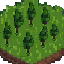
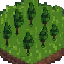
added tile growth

diff --git a/src/core/world.ts b/src/core/world.ts
@@ -4,6 +4,8 @@ import type {TerrainKey} from './terrainDefs';
 import {idleStore as store} from "../store/idleStore.ts";
 import {createLoader, finishLoader, getLoader, updateLoader} from './loader';
 import {TERRAIN_DEFS} from './terrainDefs';
+import { applyVariant } from './variants';
+import { registerExistingAgingTiles } from './growth';
 
 export type Terrain = TerrainKey;
 export type ResourceType = 'wood' | 'ore' | 'stone' | 'food' | 'crystal' | 'artifact';
@@ -18,6 +20,8 @@ export interface Tile {
     discovered: boolean;
     // Variant key if a terrain variation was selected (e.g. 'plains_coast_a'). Null if base terrain.
     variant?: string | null;
+    // Timestamp when current variant was set (for growth progression)
+    variantSetMs?: number;
     // Cached direct neighbor tiles mapped by side (a-f clockwise). Populated lazily.
     neighbors?: TileNeighborMap;
 }
@@ -140,7 +144,6 @@ export function getNeighborTerrains(tile: Tile, radius: number = 1): Terrain[] {
 
 export const terrainPositions: Record<TerrainKey, Set<string>> = {
     forest: new Set(),
-    chopped_forest: new Set(), // added for chopped forest tiles
     plains: new Set(),
     water: new Set(),
     mountain: new Set(),
@@ -148,7 +151,19 @@ export const terrainPositions: Record<TerrainKey, Set<string>> = {
     dirt: new Set(),
     snow: new Set(),
     dessert: new Set(),
+    // Add chopped_forest variant tracking (not a base TerrainKey, keep separate Set outside type cast logic)
+} as any;
+// Provide a dedicated set for chopped_forest variant tiles
+(terrainPositions as any).chopped_forest = (terrainPositions as any).chopped_forest || new Set();
+
+export const variantPositions: Record<string, Set<string>> = {
+    chopped_forest: new Set<string>(),
 };
+export function getVariantSet(key: string): Set<string> {
+    let s = variantPositions[key];
+    if (!s) { s = new Set<string>(); variantPositions[key] = s; }
+    return s;
+}
 
 export function discoverTile(tile: Tile) {
     if (tile.discovered && tile.terrain) return;
@@ -207,6 +222,10 @@ export function discoverTile(tile: Tile) {
                         roll -= v.weight;
                     }
                 }
+            }
+            // If selected variant has growth config, record timestamp and track aging
+            if (tile.variant) {
+                applyVariant(tile, tile.variant, { stagger: true, respectBiome: true });
             }
         }
     }
@@ -357,6 +376,8 @@ export function loadWorld(tileData: Tile[]) {
         }
         ensureTileNeighbors(t);
     }
+    // Re-register aging tiles after load
+    registerExistingAgingTiles(tiles);
     worldVersion.value++;
 }
 

diff --git a/src/core/growth.ts b/src/core/growth.ts
@@ -1,0 +1,64 @@
+import { tileIndex, worldVersion } from './world';
+import type { Tile } from './world';
+import { TERRAIN_DEFS } from './terrainDefs';
+import type { BiomeKey } from './biomes';
+
+// Track tiles with aging variants
+const agingTiles = new Set<string>();
+
+export function registerAgingTile(tile: Tile) {
+  if (!tile.variant) return;
+  const def = tile.terrain ? TERRAIN_DEFS[tile.terrain] : null;
+  const variantDef = def?.variations?.find(v => v.key === tile.variant);
+  if (variantDef?.growth) agingTiles.add(tile.id);
+}
+
+// Re-register tiles loaded from persistence
+export function registerExistingAgingTiles(tiles: Tile[]) {
+  for (const t of tiles) {
+    if (!t.discovered || !t.terrain || !t.variant) continue;
+    const def = TERRAIN_DEFS[t.terrain];
+    const variantDef = def?.variations?.find(v => v.key === t.variant);
+    if (variantDef?.growth) agingTiles.add(t.id);
+  }
+}
+
+export function getEffectiveAgeMs(tile: Tile, growth: { ageMs: number; biomeScale?: Partial<Record<string, number>> }): number {
+  const biome = tile.biome as BiomeKey | null;
+  if (!biome) return growth.ageMs;
+  const scale = growth.biomeScale?.[biome];
+  if (!scale || scale === 1) return growth.ageMs;
+  return growth.ageMs * scale;
+}
+
+export function updateTileGrowth(nowMs: number = Date.now()) {
+  if (agingTiles.size === 0) return;
+  const toRemove: string[] = [];
+  for (const id of agingTiles) {
+    const t = tileIndex[id];
+    if (!t || !t.discovered || !t.terrain || !t.variant) { toRemove.push(id); continue; }
+    const def = TERRAIN_DEFS[t.terrain];
+    const variantDef = def?.variations?.find(v => v.key === t.variant);
+    if (!variantDef?.growth) { toRemove.push(id); continue; }
+    const started = t.variantSetMs ?? 0;
+    if (!started) { toRemove.push(id); continue; }
+    const { next } = variantDef.growth;
+    const effectiveAge = getEffectiveAgeMs(t, variantDef.growth);
+    if (nowMs - started >= effectiveAge) {
+      // Transition
+      t.variant = next; // next null means return to base terrain representation
+      t.variantSetMs = next ? nowMs : undefined;
+      if (next) {
+        // If chain continues, keep tracking
+        const nextDef = def?.variations?.find(v => v.key === next);
+        if (!nextDef?.growth) {
+          toRemove.push(id);
+        }
+      } else {
+        toRemove.push(id);
+      }
+      worldVersion.value++;
+    }
+  }
+  for (const id of toRemove) agingTiles.delete(id);
+}

diff --git a/src/core/variants.ts b/src/core/variants.ts
@@ -1,0 +1,46 @@
+import type { Tile } from './world';
+import { registerAgingTile, getEffectiveAgeMs } from './growth';
+import { TERRAIN_DEFS } from './terrainDefs';
+import { getVariantSet } from './world';
+
+interface ApplyVariantOptions {
+  stagger?: boolean; // apply random backward offset across effective age window
+  respectBiome?: boolean; // scale aging time using biomeScale
+  setTimestamp?: boolean; // set variantSetMs (if growth config present)
+}
+
+export function applyVariant(tile: Tile, variantKey: string | null, opts: ApplyVariantOptions = {}) {
+  const prev = tile.variant;
+  tile.variant = variantKey;
+  if (prev && prev !== variantKey) {
+    // Remove previous variant tracking set if known
+    if (prev === 'chopped_forest') getVariantSet('chopped_forest').delete(tile.id);
+  }
+  if (!variantKey) {
+    tile.variantSetMs = undefined;
+    return;
+  }
+  // Track certain explicit variants
+  if (variantKey === 'chopped_forest') getVariantSet('chopped_forest').add(tile.id);
+
+  const def = tile.terrain ? TERRAIN_DEFS[tile.terrain] : null;
+  const variantDef = def?.variations?.find(v => v.key === variantKey);
+  if (!variantDef?.growth) {
+    tile.variantSetMs = undefined;
+    return;
+  }
+  if (opts.setTimestamp !== false) {
+    // Compute effective age (only needed for stagger offset). Timestamp always set to now unless stagger indicates backdating.
+    let effectiveAge = variantDef.growth.ageMs;
+    if (opts.respectBiome) {
+      effectiveAge = getEffectiveAgeMs(tile, variantDef.growth);
+    }
+    if (opts.stagger) {
+      const offset = Math.floor(Math.random() * effectiveAge);
+      tile.variantSetMs = Date.now() - offset;
+    } else {
+      tile.variantSetMs = Date.now();
+    }
+  }
+  registerAgingTile(tile);
+}

diff --git a/src/core/terrainDefs.ts b/src/core/terrainDefs.ts
@@ -38,11 +38,13 @@ export interface TerrainVariationDef {
     key: string; // unique variant image key (e.g. 'plains_coast_a')
     weight?: number; // relative selection weight among other valid variants
     constraints?: TerrainVariationConstraint[]; // all constraints must pass for variant to be eligible
+    // Optional timed growth configuration: after ageMs, variant auto-transitions to next variant (or null for base)
+    // biomeScale: per-biome multiplier applied to ageMs for tiles whose tile.biome matches the key.
+    growth?: { next: string | null; ageMs: number; biomeScale?: Partial<Record<string, number>> };
 }
 
 interface TerrainDefsMap {
     forest: TerrainDef;
-    chopped_forest: TerrainDef;
     plains: TerrainDef;
     water: TerrainDef;
     mountain: TerrainDef;
@@ -72,15 +74,8 @@ export const TERRAIN_DEFS: TerrainDefsMap = {
         moveCost: 2.5,
         variations: [
             { key: 'chopped_forest', weight: 5 },
-            { key: 'young_forest', weight: 2 },
+            { key: 'young_forest', weight: 2, growth: { next: null, ageMs: 600000, biomeScale: { forest: 0.8, plains: 1, mountain: 1.3, snow: 1.4, dessert: 1.5, lake: 0.9, dirt: 1.1 } } }, // young forest matures to base forest (10m base; faster in forest biome, slower in harsh biomes)
         ],
-    },
-    chopped_forest: {
-        color: '#14532d',
-        baseWeight: 0,
-        walkable: true,
-        moveCost: 1.2,
-        adjacency: {},
     },
     plains: {
         color: '#16a34a',

diff --git a/src/core/taskDefs/chopWood.ts b/src/core/taskDefs/chopWood.ts
@@ -2,7 +2,7 @@ import { registerTask } from '../taskRegistry';
 import type { TaskDefinition } from '../tasks';
 import { startHeroMovement, persistHeroes } from '../../store/heroStore';
 import type { Hero } from '../../store/heroStore';
-import { terrainPositions, tileIndex, worldVersion } from '../world';
+import { terrainPositions, tileIndex, worldVersion, getVariantSet } from '../world';
 import { HexMapService } from '../HexMapService';
 
 // Service instance for pathfinding (stateless enough to create locally)
@@ -59,9 +59,9 @@ const chopWoodTask: TaskDefinition = {
     onComplete(tile, _instance, participants) {
         // Replace forest with chopped_forest (only if still forest)
         if (tile.terrain === 'forest') {
-            terrainPositions.forest.delete(tile.id);
+            // Keep forest membership for adjacency logic; just apply variant tracking
             tile.variant = 'chopped_forest';
-            terrainPositions.chopped_forest.add(tile.id);
+            getVariantSet('chopped_forest').add(tile.id);
             worldVersion.value++; // trigger redraw
         }
         // For each participating hero: mark carrying wood and send to nearest towncenter

diff --git a/src/core/taskDefs/plantTrees.ts b/src/core/taskDefs/plantTrees.ts
@@ -1,7 +1,10 @@
 import {registerTask} from '../taskRegistry';
 import type {TaskDefinition} from '../tasks';
 import type {Hero} from '../../store/heroStore';
-import {terrainPositions, worldVersion} from '../world';
+import { worldVersion } from '../world';
+import { terrainPositions } from '../world';
+import { getVariantSet } from '../world';
+import { applyVariant } from '../variants';
 
 // Task: Restore chopped_forest back into forest.
 // Heroes collectively spend time replanting; progress rate uses hero XP & ATK lightly.
@@ -33,8 +36,8 @@ const plantTreesTask: TaskDefinition = {
     onComplete(tile, _instance, _participants) {
         // Only convert if still chopped_forest (another task might have altered it).
         if (tile.variant === 'chopped_forest') {
-            terrainPositions.chopped_forest.delete(tile.id);
-            tile.variant = 'young_forest';
+            getVariantSet('chopped_forest').delete(tile.id);
+            applyVariant(tile, 'young_forest', { stagger: false, respectBiome: true }); // respect biome scaling for future chains but no random offset
             terrainPositions.forest.add(tile.id);
             worldVersion.value++;
         }

diff --git a/src/store/idleStore.ts b/src/store/idleStore.ts
@@ -2,6 +2,7 @@ import {watch} from 'vue';
 import {type Tile, tiles, worldVersion} from '../core/world';
 import { updateActiveTasks } from './taskStore';
 import { heroes } from './heroStore';
+import { updateTileGrowth } from '../core/growth';
 
 interface IdleState {
     tiles: Tile[];
@@ -51,5 +52,6 @@ async function loop() {
     if (!idleStore.running) return;
     idleStore.tick++;
     updateActiveTasks(heroes);
+    updateTileGrowth();
     requestAnimationFrame(loop);
 }

diff --git a/src/core/terrain.ts b/src/core/terrain.ts
@@ -24,7 +24,6 @@ function getWeightsForContext(neighborTerrains: TerrainKey[], biomeTerrains: Ter
     // Base weights copy per terrain type
     const weights: Record<TerrainKey, number> = {
         forest: TERRAIN_DEFS.forest.baseWeight,
-        chopped_forest: TERRAIN_DEFS.chopped_forest.baseWeight,
         plains: TERRAIN_DEFS.plains.baseWeight,
         water: TERRAIN_DEFS.water.baseWeight,
         mountain: TERRAIN_DEFS.mountain.baseWeight,

diff --git a/README.md b/README.md
@@ -179,3 +179,48 @@ Tasks serialize minimal fields under `driftlands_tasks_v2`. Heroes persist separ
 - Negative elapsed or zero elapsed are ignored.
 - Multiple completions in same frame handled by array slice iteration.
 - Offline gap sets baseline timestamp to avoid partial double-counting until heroes restored.
+
+---
+
+## 🌱 Timed Terrain Variant Growth
+Certain terrain variants naturally age over real time. This enables ecological recovery flows (e.g. replanting chopped forests) without manual tasks beyond the initial action.
+
+### How It Works
+- Variants can declare a `growth` config in `src/core/terrainDefs.ts`:
+  - `growth: { next: string | null; ageMs: number }`
+  - `next: null` means the tile returns to its base terrain appearance (variant cleared).
+  - If `next` points to another variant that itself has `growth`, the chain continues.
+- When a variant with growth is applied, the tile records `variantSetMs = Date.now()` and is added to the aging tracker.
+- Each frame (`idleStore` loop) `updateTileGrowth()` checks aging tiles and transitions those whose elapsed time >= `ageMs`.
+- World redraw is triggered via `worldVersion` bumps.
+
+### Current Chain
+- `forest` variant `young_forest` → (after 120000 ms) `null` (base forest art).
+
+### Adding New Growth Stages
+1. Add or modify a variant entry in its terrain definition:
+```ts
+{ key: 'sapling_forest', weight: 1, growth: { next: 'young_forest', ageMs: 60000 } }
+{ key: 'young_forest', weight: 2, growth: { next: null, ageMs: 120000 } }
+```
+2. Ensure any code that manually sets a variant also updates:
+```ts
+ tile.variant = 'young_forest';
+ tile.variantSetMs = Date.now();
+ registerAgingTile(tile);
+```
+(You can alternatively create a helper if many call sites emerge.)
+
+### Persistence
+- `variantSetMs` is stored with each tile via existing world save serialization. On load we re-register aging tiles; matured variants will advance automatically after the required time passes.
+
+### Edge Handling
+- If a tile's variant changes early (e.g. by another task), its growth entry is removed automatically.
+- Missing `variantSetMs` or removed growth definitions are cleaned during update passes.
+
+### Performance
+- Only tiles with active aging are tracked in a `Set`; per-frame work is proportional to aging tile count.
+
+### Biome Scaling
+Variants can define `biomeScale` multipliers inside their `growth` config. The effective maturation time = `ageMs * (biomeScale[biome] ?? 1)`.
+Example (`young_forest`): faster in `forest` biome (0.8x), slower in harsh biomes like `dessert` (1.5x) or `snow` (1.4x).
